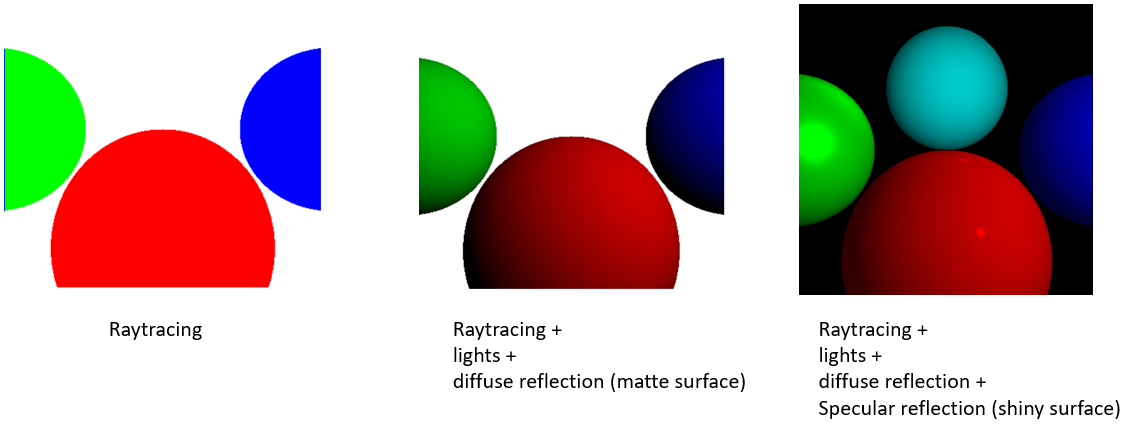
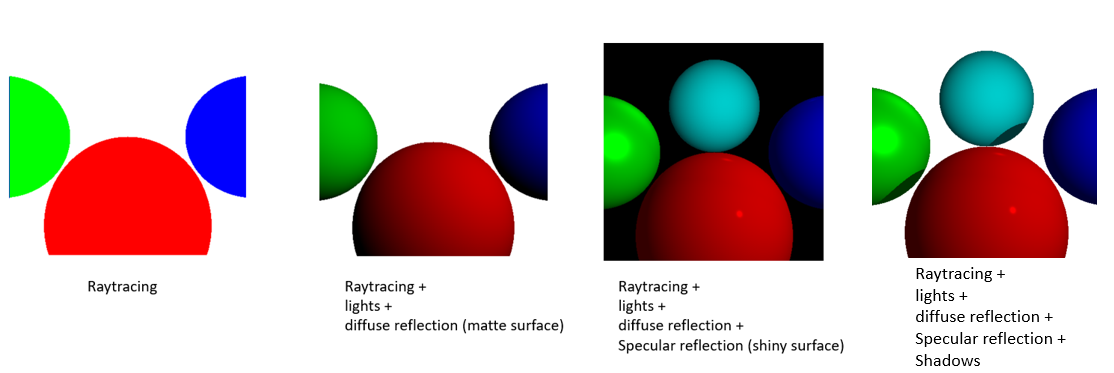
updated readme

diff --git a/README.md b/README.md
@@ -22,7 +22,7 @@ A simple CPU-based ray tracer written in **vanilla JavaScript**, rendering direc
 
 ---
 
-## Lighting Model
+## Modelling Lighting
 
 ### Types of Light Sources
 
@@ -112,6 +112,15 @@ Therefore, when no lights are present, it will be pitch black as shown in below 
 [![Watch Diffuse Reflection demo](readmeImages/Diffuse_Lighting_demo.png)](https://www.youtube.com/watch?v=PY25eGugKfM)
 
 ---
+
+## Modelling Shadows
+
+- In raytracing we cast a ray from camera and find its intersection with an object.
+- From the point of intersection (P) towards the light source we have a vector called the light vector (L) which we saw earlier in lights modelling section.
+- We form a new ray vector of the form P + t\*L where t is a positive number and can vary, P and L are 3D vectors.
+- This ray starts at the intersection point and travels in the direction of the light source.
+- If this shadow ray intersects any other object before reaching the light, it means the light is blocked, and point P lies in shadow.
+- If no object obstructs the shadow ray, then the light reaches point P, and we proceed with lighting calculations (diffuse, specular)
 
 ## Project Structure
 
